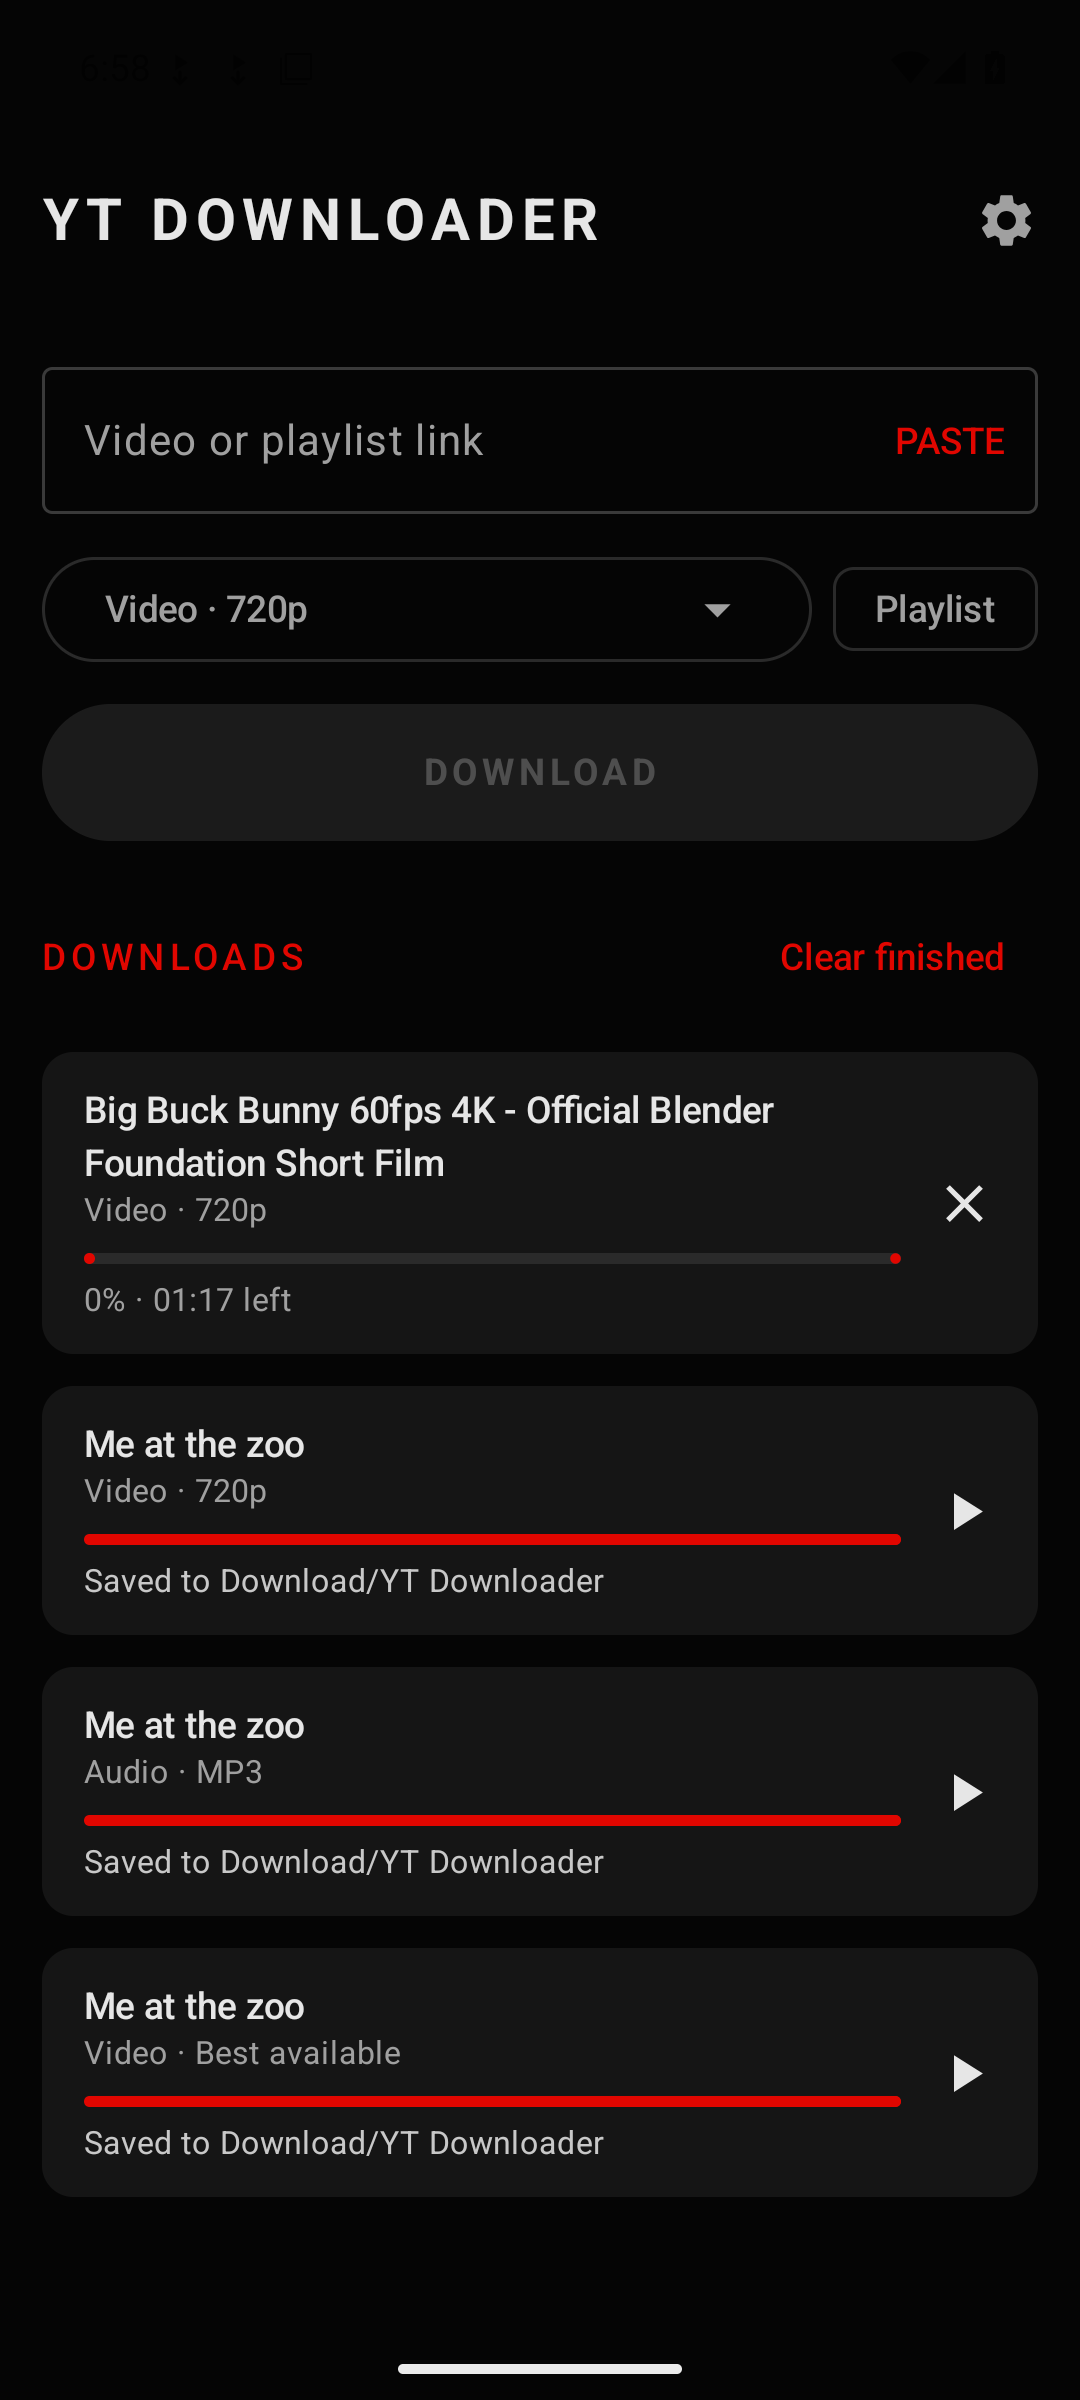
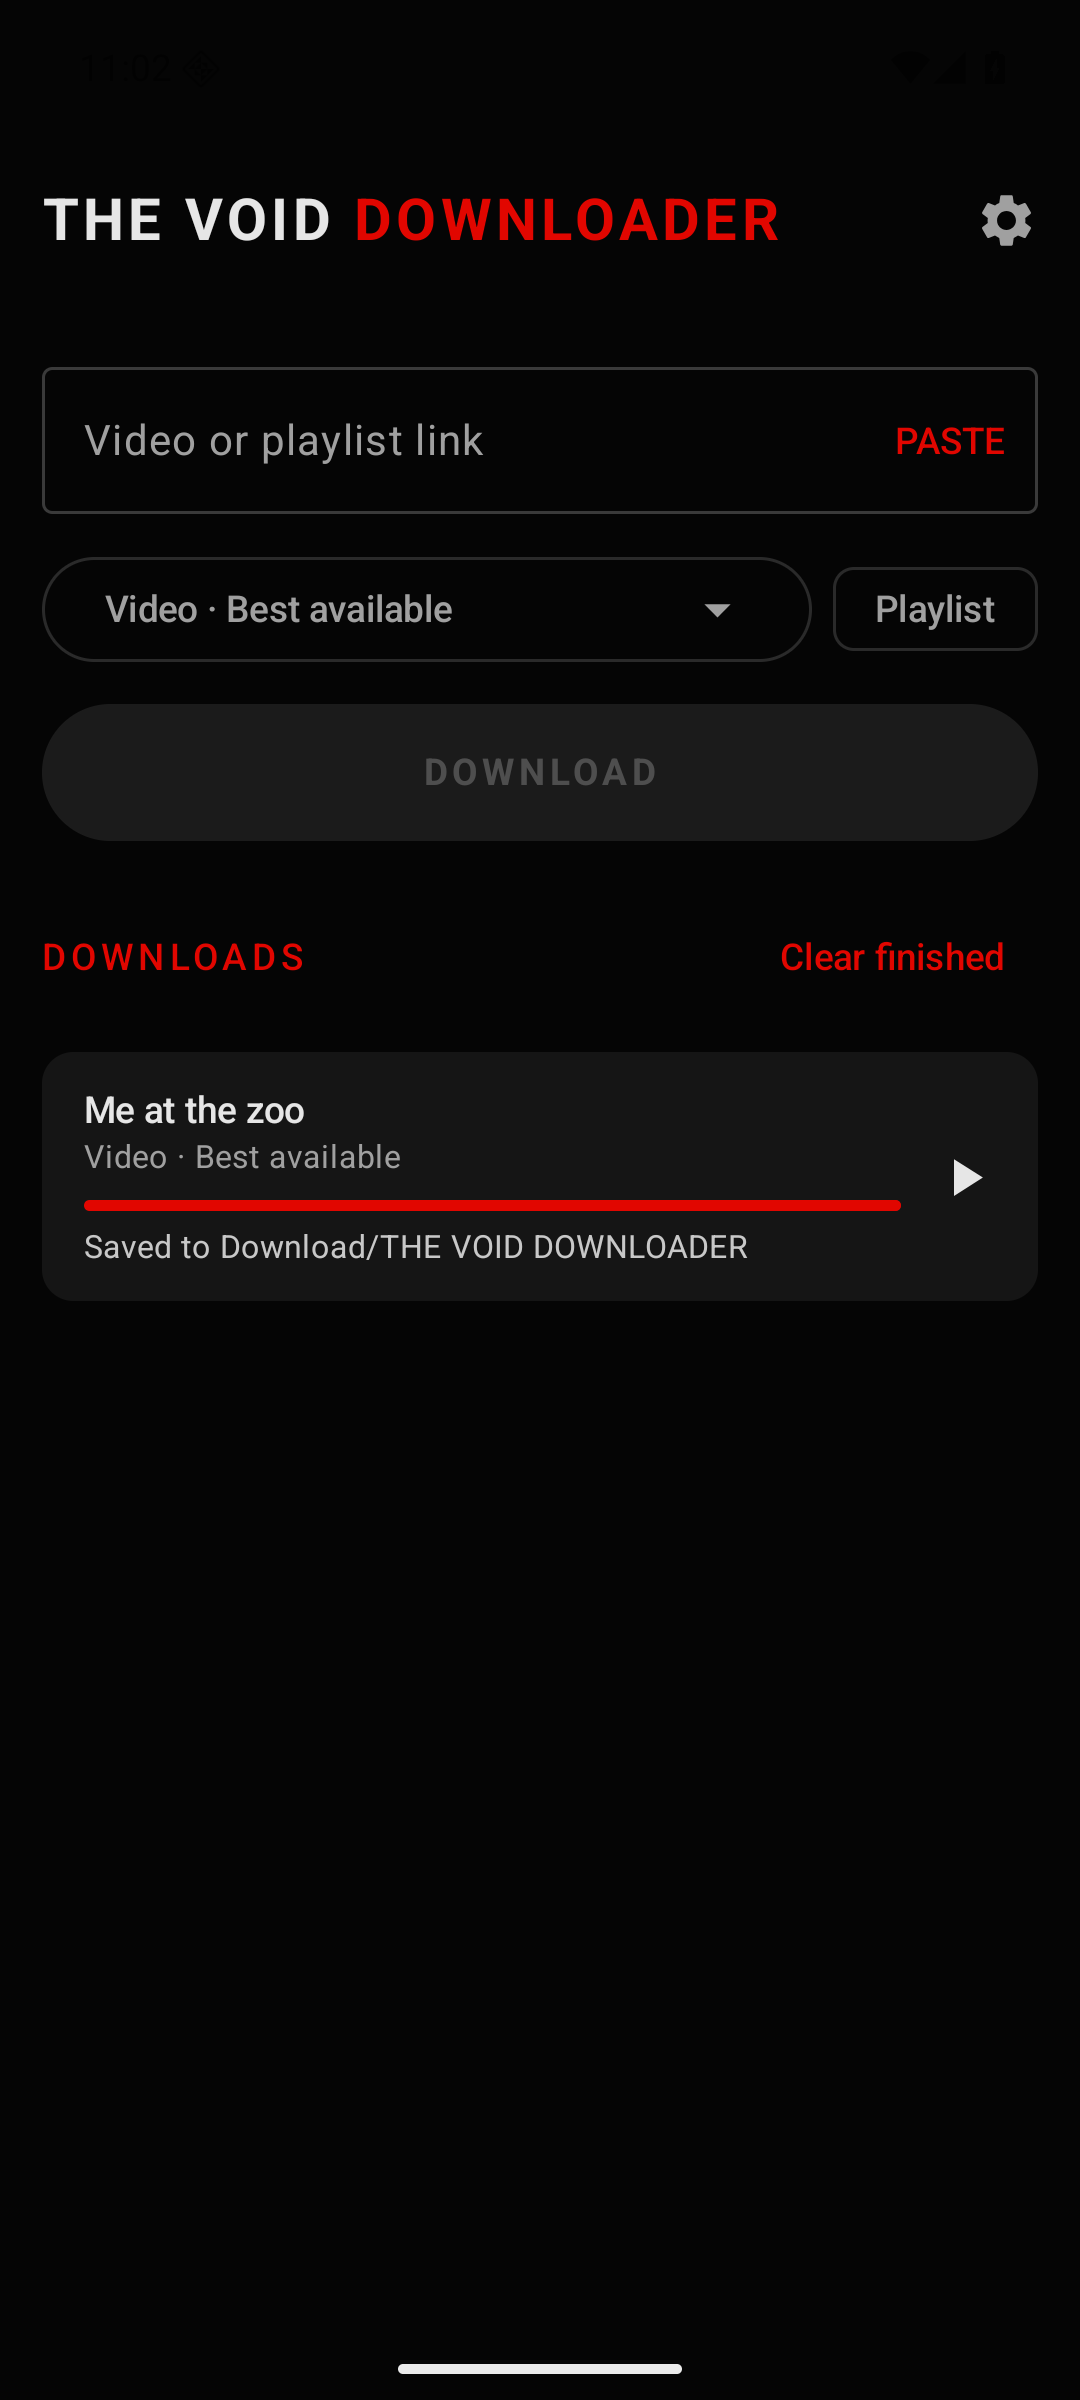
Add files via upload

diff --git a/android/app/src/main/java/com/thevoid/ytdownloader/ui/MainScreen.kt b/android/app/src/main/java/com/thevoid/ytdownloader/ui/MainScreen.kt
@@ -56,7 +56,10 @@ import androidx.compose.runtime.setValue
 import androidx.compose.ui.Alignment
 import androidx.compose.ui.Modifier
 import androidx.compose.ui.platform.LocalContext
+import androidx.compose.ui.text.SpanStyle
+import androidx.compose.ui.text.buildAnnotatedString
 import androidx.compose.ui.text.font.FontWeight
+import androidx.compose.ui.text.withStyle
 import androidx.compose.ui.text.input.ImeAction
 import androidx.compose.ui.text.input.KeyboardType
 import androidx.compose.ui.text.style.TextAlign
@@ -67,6 +70,7 @@ import androidx.lifecycle.compose.collectAsStateWithLifecycle
 import androidx.work.WorkInfo
 import com.thevoid.ytdownloader.data.Preset
 import com.thevoid.ytdownloader.download.DownloadItem
+import com.thevoid.ytdownloader.download.MediaSaver
 import com.thevoid.ytdownloader.download.YtDl
 
 @OptIn(ExperimentalMaterial3Api::class)
@@ -89,7 +93,18 @@ fun MainScreen(vm: MainViewModel) {
         topBar = {
             TopAppBar(
                 title = {
-                    Text("YT DOWNLOADER", fontWeight = FontWeight.Bold, letterSpacing = 3.sp)
+                    Text(
+                        buildAnnotatedString {
+                            append("THE VOID ")
+                            withStyle(SpanStyle(color = MaterialTheme.colorScheme.primary)) {
+                                append("DOWNLOADER")
+                            }
+                        },
+                        fontWeight = FontWeight.Bold,
+                        letterSpacing = 2.sp,
+                        maxLines = 1,
+                        overflow = TextOverflow.Ellipsis,
+                    )
                 },
                 actions = {
                     IconButton(onClick = { showSettings = true }) {
@@ -170,7 +185,7 @@ fun MainScreen(vm: MainViewModel) {
             if (items.isEmpty()) {
                 item {
                     Text(
-                        "No downloads yet.\nShare a video to YT Downloader, or paste a link above.",
+                        "No downloads yet.\nShare a video to THE VOID DOWNLOADER, or paste a link above.",
                         modifier = Modifier.fillMaxWidth().padding(vertical = 32.dp),
                         textAlign = TextAlign.Center,
                         color = MaterialTheme.colorScheme.onSurfaceVariant,
@@ -298,8 +313,8 @@ private fun statusText(item: DownloadItem): Pair<String, (androidx.compose.mater
     when (item.state) {
         WorkInfo.State.ENQUEUED, WorkInfo.State.BLOCKED -> "Waiting…" to { it.onSurfaceVariant }
         WorkInfo.State.RUNNING -> (item.status ?: "Starting…") to { it.onSurfaceVariant }
-        WorkInfo.State.SUCCEEDED -> (if (item.uris.size > 1) "Saved ${item.uris.size} files to Download/YT Downloader"
-            else "Saved to Download/YT Downloader") to { it.secondary }
+        WorkInfo.State.SUCCEEDED -> (if (item.uris.size > 1) "Saved ${item.uris.size} files to Download/${MediaSaver.FOLDER}"
+            else "Saved to Download/${MediaSaver.FOLDER}") to { it.secondary }
         WorkInfo.State.FAILED -> if (item.error == "Cancelled") "Cancelled" to { it.onSurfaceVariant }
             else (item.error ?: "Failed") to { it.error }
         WorkInfo.State.CANCELLED -> "Cancelled" to { it.onSurfaceVariant }

diff --git a/android/app/src/main/java/com/thevoid/ytdownloader/ui/SettingsDialog.kt b/android/app/src/main/java/com/thevoid/ytdownloader/ui/SettingsDialog.kt
@@ -25,6 +25,7 @@ import androidx.compose.ui.Modifier
 import androidx.compose.ui.unit.dp
 import androidx.lifecycle.compose.collectAsStateWithLifecycle
 import com.thevoid.ytdownloader.BuildConfig
+import com.thevoid.ytdownloader.download.MediaSaver
 
 @Composable
 fun SettingsDialog(vm: MainViewModel, onDismiss: () -> Unit) {
@@ -56,10 +57,20 @@ fun SettingsDialog(vm: MainViewModel, onDismiss: () -> Unit) {
                     Text(if (updating) "Updating…" else "Update yt-dlp")
                 }
                 HorizontalDivider(Modifier.padding(vertical = 12.dp))
-                Text("Files are saved to Download/YT Downloader.", style = MaterialTheme.typography.bodySmall)
+                Text("Files are saved to Download/${MediaSaver.FOLDER}.",
+                    style = MaterialTheme.typography.bodySmall)
+                HorizontalDivider(Modifier.padding(vertical = 12.dp))
+                Text("CREDITS", style = MaterialTheme.typography.labelLarge,
+                    color = MaterialTheme.colorScheme.primary)
+                Spacer(Modifier.height(4.dp))
+                Text(
+                    "A THE VOID project by THE VOID PROTOCOL\n" +
+                        "Owner of THE VOID: MRVIMA (alias VOIDVIMA)",
+                    style = MaterialTheme.typography.bodySmall,
+                )
                 Spacer(Modifier.height(8.dp))
                 Text(
-                    "YT Downloader ${BuildConfig.VERSION_NAME} · THE VOID PROTOCOL\n" +
+                    "THE VOID DOWNLOADER ${BuildConfig.VERSION_NAME} · Powered by yt-dlp\n" +
                         "github.com/MRVIMA/yt-downloader · MIT License\n\n" +
                         "Only download content you have the right to. Respect copyright " +
                         "and each site's terms of service.",

diff --git a/android/app/src/main/java/com/thevoid/ytdownloader/ui/MainViewModel.kt b/android/app/src/main/java/com/thevoid/ytdownloader/ui/MainViewModel.kt
@@ -10,12 +10,14 @@ import com.thevoid.ytdownloader.download.DownloadItem
 import com.thevoid.ytdownloader.download.DownloadRepository
 import com.thevoid.ytdownloader.download.DownloadSpec
 import com.thevoid.ytdownloader.download.YtDl
+import kotlinx.coroutines.Dispatchers
 import kotlinx.coroutines.flow.MutableStateFlow
 import kotlinx.coroutines.flow.SharingStarted
 import kotlinx.coroutines.flow.StateFlow
 import kotlinx.coroutines.flow.asStateFlow
 import kotlinx.coroutines.flow.stateIn
 import kotlinx.coroutines.launch
+import kotlinx.coroutines.withContext
 
 private val URL_REGEX = Regex("""https?://\S+""")
 
@@ -49,7 +51,7 @@ class MainViewModel(app: Application) : AndroidViewModel(app) {
     init {
         viewModelScope.launch {
             runCatching { YtDl.ensureInitialized(app) }
-            _ytDlpVersion.value = YtDl.version(app)
+            _ytDlpVersion.value = withContext(Dispatchers.IO) { YtDl.version(app) }
         }
     }
 
@@ -93,7 +95,7 @@ class MainViewModel(app: Application) : AndroidViewModel(app) {
                 onSuccess = { updated -> if (updated) "yt-dlp updated" else "yt-dlp is already up to date" },
                 onFailure = { "Update failed: ${it.message}" },
             )
-            _ytDlpVersion.value = YtDl.version(app)
+            _ytDlpVersion.value = withContext(Dispatchers.IO) { YtDl.version(app) }
             _updating.value = false
             show(message)
         }

diff --git a/android/app/src/main/java/com/thevoid/ytdownloader/download/YtDl.kt b/android/app/src/main/java/com/thevoid/ytdownloader/download/YtDl.kt
@@ -4,6 +4,7 @@ import android.content.Context
 import android.util.Log
 import com.yausername.ffmpeg.FFmpeg
 import com.yausername.youtubedl_android.YoutubeDL
+import com.yausername.youtubedl_android.YoutubeDLRequest
 import kotlinx.coroutines.Dispatchers
 import kotlinx.coroutines.flow.MutableStateFlow
 import kotlinx.coroutines.flow.StateFlow
@@ -41,8 +42,17 @@ object YtDl {
         }
     }
 
-    fun version(context: Context): String? =
-        runCatching { YoutubeDL.getInstance().versionName(context) }.getOrNull()
+    /**
+     * yt-dlp version. The library only records it after an in-app update, so for the bundled
+     * copy ask yt-dlp itself. Blocking: call from a background dispatcher.
+     */
+    fun version(context: Context): String? = runCatching {
+        val dl = YoutubeDL.getInstance()
+        dl.versionName(context)?.takeIf { it.isNotBlank() }
+            ?: dl.version(context)?.takeIf { it.isNotBlank() }
+            ?: dl.execute(YoutubeDLRequest(emptyList<String>()).addOption("--version")).out.trim()
+                .takeIf { it.isNotBlank() }
+    }.getOrNull()
 
     /** Returns true if a newer yt-dlp was installed. */
     suspend fun update(context: Context): Boolean = withContext(Dispatchers.IO) {

diff --git a/android/app/src/main/java/com/thevoid/ytdownloader/download/MediaSaver.kt b/android/app/src/main/java/com/thevoid/ytdownloader/download/MediaSaver.kt
@@ -12,9 +12,9 @@ import androidx.core.content.FileProvider
 import java.io.File
 import java.io.IOException
 
-/** Copies finished files into the public Download/YT Downloader folder. */
+/** Copies finished files into the public Download/THE VOID DOWNLOADER folder. */
 object MediaSaver {
-    const val FOLDER = "YT Downloader"
+    const val FOLDER = "THE VOID DOWNLOADER"
 
     fun mimeType(file: File): String =
         MimeTypeMap.getSingleton().getMimeTypeFromExtension(file.extension.lowercase())

diff --git a/android/app/src/main/java/com/thevoid/ytdownloader/MainActivity.kt b/android/app/src/main/java/com/thevoid/ytdownloader/MainActivity.kt
@@ -36,7 +36,7 @@ class MainActivity : ComponentActivity() {
         handleShare(intent)
     }
 
-    /** "Share → YT Downloader" from YouTube, a browser, etc. */
+    /** "Share → THE VOID DOWNLOADER" from YouTube, a browser, etc. */
     private fun handleShare(intent: Intent?) {
         if (intent?.action == Intent.ACTION_SEND) {
             intent.getStringExtra(Intent.EXTRA_TEXT)?.let(vm::onShared)

diff --git a/src/yt_downloader/gui/settings.py b/src/yt_downloader/gui/settings.py
@@ -10,7 +10,7 @@ from yt_downloader import APP_SLUG
 from yt_downloader.core import DownloadOptions
 from yt_downloader.core.options import CONTAINERS, COOKIE_BROWSERS, DEFAULT_TEMPLATE
 from yt_downloader.core.presets import DEFAULT_PRESET, PRESETS
-from yt_downloader.core.utils import default_download_dir
+from yt_downloader.core.utils import LEGACY_DOWNLOAD_FOLDER, default_download_dir
 
 MAX_CONCURRENT_LIMIT = 5
 
@@ -26,7 +26,13 @@ class AppSettings:
 
     @property
     def output_dir(self) -> Path:
-        return Path(self._get("download/output_dir", str(default_download_dir()), str))
+        default = default_download_dir()
+        path = Path(self._get("download/output_dir", str(default), str))
+        # Users still on the old default folder move to the new one; custom folders are kept.
+        if path == default.parent / LEGACY_DOWNLOAD_FOLDER:
+            self.output_dir = default
+            return default
+        return path
 
     @output_dir.setter
     def output_dir(self, value: Path) -> None:

diff --git a/src/yt_downloader/core/utils.py b/src/yt_downloader/core/utils.py
@@ -23,16 +23,20 @@ def has_js_runtime() -> bool:
     return any(shutil.which(name) for name in ("deno", "node", "bun", "qjs"))
 
 
+DOWNLOAD_FOLDER = "THE VOID DOWNLOADER"
+LEGACY_DOWNLOAD_FOLDER = "YT Downloader"  # default before 1.0.0 final; migrated automatically
+
+
 def default_download_dir() -> Path:
     xdg = _xdg_user_dir("DOWNLOAD")
-    return (xdg or Path.home() / "Downloads") / "YT Downloader"
+    return (xdg or Path.home() / "Downloads") / DOWNLOAD_FOLDER
 
 
 def state_dir() -> Path:
     """Where logs go: %LOCALAPPDATA% on Windows, $XDG_STATE_HOME elsewhere."""
     if sys.platform == "win32":
         base = os.environ.get("LOCALAPPDATA") or Path.home() / "AppData" / "Local"
-        return Path(base) / "YT Downloader" / "logs"
+        return Path(base) / "THE VOID DOWNLOADER" / "logs"
     base = os.environ.get("XDG_STATE_HOME") or Path.home() / ".local" / "state"
     return Path(base) / APP_SLUG
 

diff --git a/src/yt_downloader/gui/main_window.py b/src/yt_downloader/gui/main_window.py
@@ -270,8 +270,12 @@ class MainWindow(QMainWindow):
             self, f"About {APP_NAME}",
             f"<h3>{APP_NAME} {__version__}</h3>"
             "<p>Download video and audio from YouTube and hundreds of other sites.</p>"
+            "<p><b>Credits</b><br>"
+            "A <b>THE VOID</b> project by <b>THE VOID PROTOCOL</b><br>"
+            "Owner of THE VOID: <b>MRVIMA</b> (alias <b>VOIDVIMA</b>)</p>"
             "<p>Powered by <a href='https://github.com/yt-dlp/yt-dlp'>yt-dlp</a> and Qt.<br>"
-            "Released under the MIT License.</p>"
+            "Released under the MIT License · "
+            "<a href='https://github.com/MRVIMA/yt-downloader'>github.com/MRVIMA/yt-downloader</a></p>"
             "<p>Please respect copyright and each site's terms of service.</p>")
 
     # Queue management --------------------------------------------------------------------

diff --git a/tests/test_gui.py b/tests/test_gui.py
@@ -60,3 +60,20 @@ def test_cancel_queued_item(qapp, tmp_path):
     assert item.state == State.CANCELLED
     assert worker.job.cancelled
     assert item.retry_btn.isVisibleTo(item)
+
+
+def test_old_default_folder_migrates(settings, tmp_path, monkeypatch):
+    from yt_downloader.gui import settings as settings_mod
+
+    new_default = tmp_path / "Downloads" / "THE VOID DOWNLOADER"
+    monkeypatch.setattr(settings_mod, "default_download_dir", lambda: new_default)
+    settings.output_dir = tmp_path / "Downloads" / "YT Downloader"
+    assert settings.output_dir == new_default
+    settings.output_dir = tmp_path / "Music"  # a folder the user chose is kept
+    assert settings.output_dir == tmp_path / "Music"
+
+
+def test_default_folder_name():
+    from yt_downloader.core.utils import default_download_dir
+
+    assert default_download_dir().name == "THE VOID DOWNLOADER"

diff --git a/packaging/windows/make_version_info.py b/packaging/windows/make_version_info.py
@@ -15,9 +15,9 @@ nums = ", ".join(str(int(re.match(r"\d+", p)[0])) for p in parts)
   kids=[
     StringFileInfo([StringTable('040904B0', [
       StringStruct('CompanyName', 'THE VOID PROTOCOL'),
-      StringStruct('FileDescription', 'YT Downloader'),
+      StringStruct('FileDescription', 'THE VOID DOWNLOADER'),
       StringStruct('FileVersion', '{version}'),
-      StringStruct('ProductName', 'YT Downloader'),
+      StringStruct('ProductName', 'THE VOID DOWNLOADER'),
       StringStruct('ProductVersion', '{version}'),
       StringStruct('LegalCopyright', '(c) THE VOID PROTOCOL. MIT License.'),
     ])]),

diff --git a/tests/test_presets_and_utils.py b/tests/test_presets_and_utils.py
@@ -53,7 +53,7 @@ def test_state_dir_windows(monkeypatch, tmp_path):
 
     monkeypatch.setattr(utils.sys, "platform", "win32")
     monkeypatch.setenv("LOCALAPPDATA", str(tmp_path))
-    assert utils.state_dir() == tmp_path / "YT Downloader" / "logs"
+    assert utils.state_dir() == tmp_path / "THE VOID DOWNLOADER" / "logs"
 
 
 def test_use_bundled_tools_prepends_bin(monkeypatch, tmp_path):
